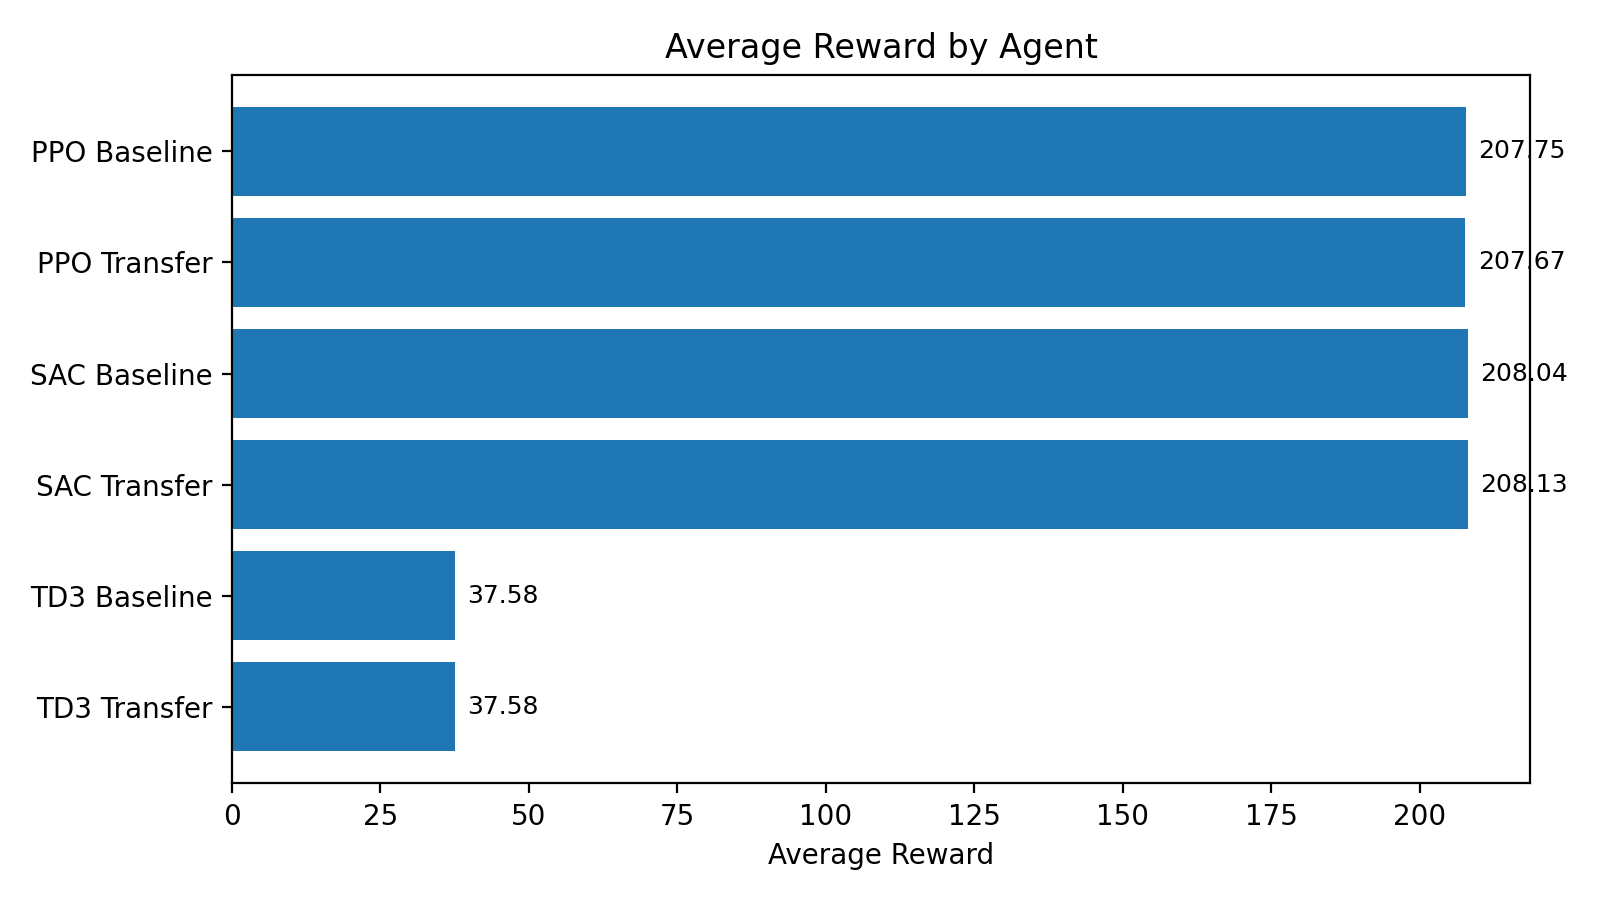
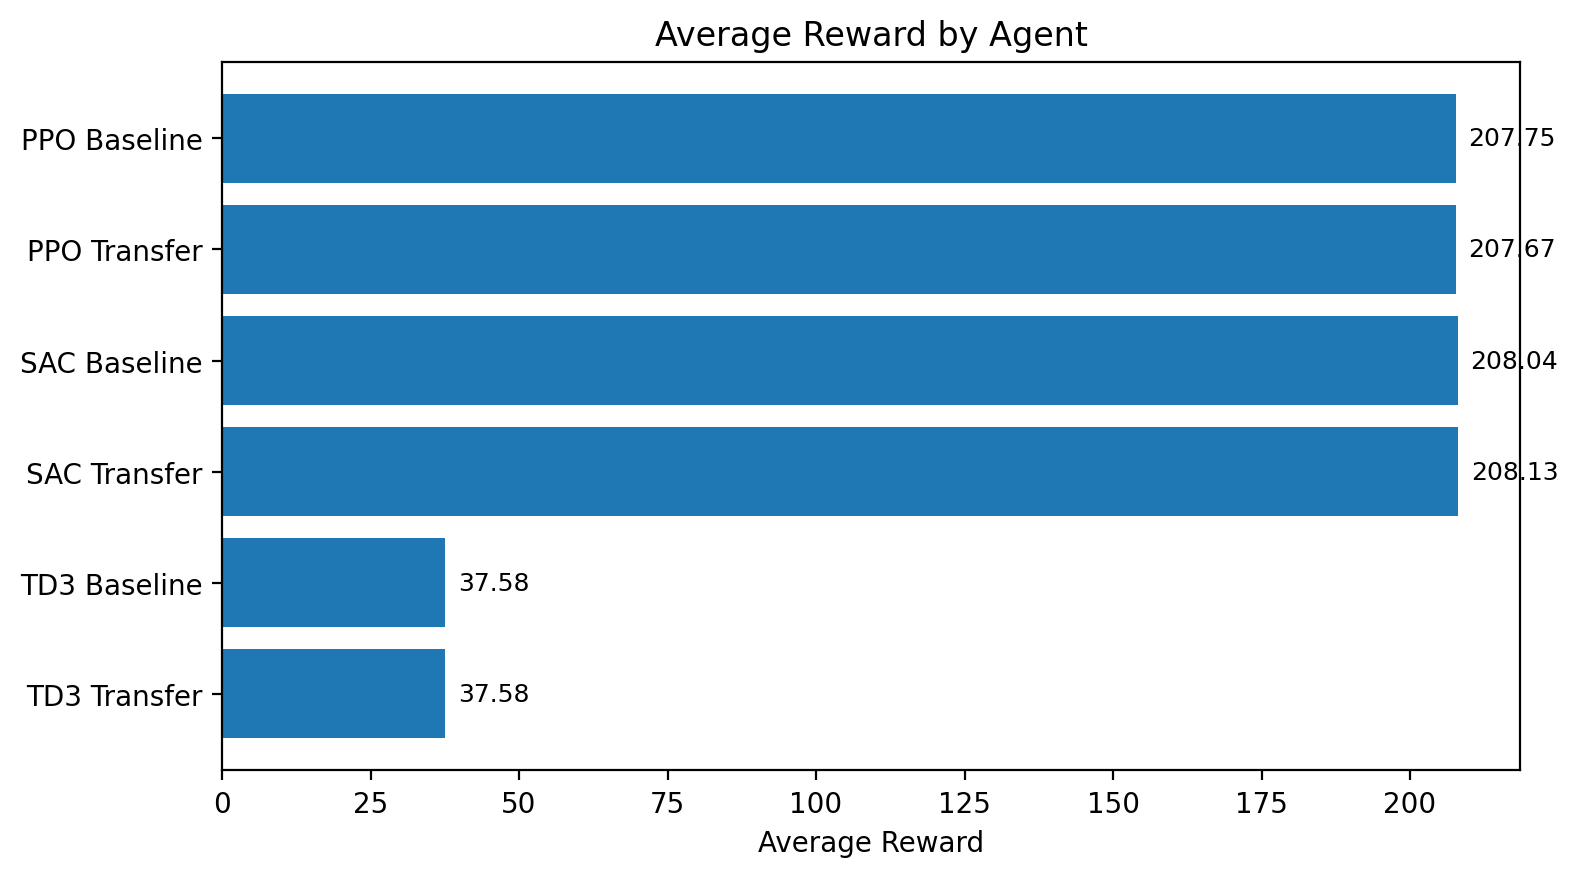
Clean README and evaluation plot generation

Changed region(s): [[0.0, 0.0308, 0.9937, 0.9852], [0.2795, 0.7697, 0.3416, 0.8005], [0.2795, 0.6465, 0.3416, 0.6773]]

diff --git a/src/eval/plot_results.py b/src/eval/plot_results.py
@@ -1,11 +1,14 @@
 import os
-import pandas as pd
+
 import matplotlib.pyplot as plt
+import pandas as pd
+
 
 RESULTS_DIR = os.path.join("results", "plots")
-os.makedirs(RESULTS_DIR, exist_ok=True)
+CSV_PATH = os.path.join("results", "evaluation_results.csv")
 
-data = [
+
+EVALUATION_RESULTS = [
     {
         "Agent": "PPO Baseline",
         "Algorithm": "PPO",
@@ -62,81 +65,107 @@ data = [
     },
 ]
 
-df = pd.DataFrame(data)
+
+def make_results_dataframe() -> pd.DataFrame:
+    """Create a DataFrame from the evaluation results."""
+    return pd.DataFrame(EVALUATION_RESULTS)
 
 
-def add_value_labels(ax, values, suffix=""):
-    for i, value in enumerate(values):
+def add_horizontal_value_labels(ax, values, suffix=""):
+    """Add labels to the end of horizontal bars."""
+    max_value = max(values) if values else 0
+
+    for index, value in enumerate(values):
+        label_offset = max_value * 0.01 if max_value > 0 else 1
         ax.text(
-            value + max(values) * 0.01 if max(values) > 0 else value + 1,
-            i,
+            value + label_offset,
+            index,
             f"{value:.2f}{suffix}",
             va="center",
             fontsize=9,
         )
 
 
-def save_horizontal_bar(column_name, filename, title, xlabel, suffix=""):
+def save_average_reward_plot(df: pd.DataFrame) -> None:
+    """Save a horizontal bar chart comparing average reward by agent."""
     fig, ax = plt.subplots(figsize=(8, 4.5))
-    ax.barh(df["Agent"], df[column_name])
-    ax.set_title(title)
-    ax.set_xlabel(xlabel)
+
+    ax.barh(df["Agent"], df["Average Reward"])
+    ax.set_title("Average Reward by Agent")
+    ax.set_xlabel("Average Reward")
     ax.invert_yaxis()
-    add_value_labels(ax, df[column_name].tolist(), suffix)
+
+    add_horizontal_value_labels(ax, df["Average Reward"].tolist())
+
     plt.tight_layout()
-    plt.savefig(os.path.join(RESULTS_DIR, filename), dpi=200)
-    plt.close()
+    plt.savefig(
+        os.path.join(RESULTS_DIR, "average_reward_comparison.png"),
+        dpi=200,
+        bbox_inches="tight",
+    )
+    plt.close(fig)
 
 
-def save_success_vs_oob():
-    comparison_df = df[["Agent", "Success Rate", "Out-of-Bounds Rate"]].copy()
-
+def save_success_vs_out_of_bounds_plot(df: pd.DataFrame) -> None:
+    """Save a grouped horizontal bar chart comparing success and out-of-bounds rates."""
     fig, ax = plt.subplots(figsize=(8, 4.5))
 
-    y_positions = range(len(comparison_df))
+    y_positions = list(range(len(df)))
     bar_height = 0.35
 
-    success_positions = [y - bar_height / 2 for y in y_positions]
-    oob_positions = [y + bar_height / 2 for y in y_positions]
+    success_positions = [position - bar_height / 2 for position in y_positions]
+    out_of_bounds_positions = [position + bar_height / 2 for position in y_positions]
 
-    ax.barh(success_positions, comparison_df["Success Rate"], height=bar_height, label="Success Rate")
-    ax.barh(oob_positions, comparison_df["Out-of-Bounds Rate"], height=bar_height, label="Out-of-Bounds Rate")
+    ax.barh(
+        success_positions,
+        df["Success Rate"],
+        height=bar_height,
+        label="Success Rate",
+    )
+    ax.barh(
+        out_of_bounds_positions,
+        df["Out-of-Bounds Rate"],
+        height=bar_height,
+        label="Out-of-Bounds Rate",
+    )
 
-    ax.set_yticks(list(y_positions))
-    ax.set_yticklabels(comparison_df["Agent"])
-    ax.invert_yaxis()
+    ax.set_title("Success Rate vs. Out-of-Bounds Rate")
     ax.set_xlabel("Rate (%)")
-    ax.set_title("Success Rate vs Out-of-Bounds Rate")
-    ax.legend()
+    ax.set_yticks(y_positions)
+    ax.set_yticklabels(df["Agent"])
+    ax.invert_yaxis()
+    ax.legend(loc="lower right")
 
-    for i, value in enumerate(comparison_df["Success Rate"]):
-        ax.text(value + 1, success_positions[i], f"{value:.0f}%", va="center", fontsize=8)
+    for index, value in enumerate(df["Success Rate"]):
+        ax.text(value + 1, success_positions[index], f"{value:.0f}%", va="center", fontsize=8)
 
-    for i, value in enumerate(comparison_df["Out-of-Bounds Rate"]):
-        ax.text(value + 1, oob_positions[i], f"{value:.0f}%", va="center", fontsize=8)
+    for index, value in enumerate(df["Out-of-Bounds Rate"]):
+        ax.text(value + 1, out_of_bounds_positions[index], f"{value:.0f}%", va="center", fontsize=8)
 
     plt.tight_layout()
-    plt.savefig(os.path.join(RESULTS_DIR, "success_vs_out_of_bounds.png"), dpi=200)
-    plt.close()
+    plt.savefig(
+        os.path.join(RESULTS_DIR, "success_vs_out_of_bounds.png"),
+        dpi=200,
+        bbox_inches="tight",
+    )
+    plt.close(fig)
 
 
-save_horizontal_bar(
-    "Average Reward",
-    "average_reward_comparison.png",
-    "Average Reward by Agent",
-    "Average Reward",
-)
+def main() -> None:
+    """Generate evaluation result plots and save the raw data as a CSV file."""
+    os.makedirs(RESULTS_DIR, exist_ok=True)
 
-save_success_vs_oob()
+    df = make_results_dataframe()
+    df.to_csv(CSV_PATH, index=False)
 
-save_horizontal_bar(
-    "Avg Episode Length",
-    "episode_length_comparison.png",
-    "Average Episode Length by Agent",
-    "Average Episode Length",
-)
+    save_average_reward_plot(df)
+    save_success_vs_out_of_bounds_plot(df)
 
-df.to_csv(os.path.join("results", "evaluation_results.csv"), index=False)
+    print("Saved CSV to results/evaluation_results.csv")
+    print("Saved plots to results/plots/")
+    print("- average_reward_comparison.png")
+    print("- success_vs_out_of_bounds.png")
 
-print("Saved plots to results/plots/")
-print("Saved CSV to results/evaluation_results.csv")
+
+if __name__ == "__main__":
+    main()

diff --git a/README.md b/README.md
@@ -2,7 +2,7 @@
 
 A reinforcement learning project comparing **PPO**, **SAC**, and **TD3** for simulated autonomous navigation. The project explores whether behavior learned in a UAV-style obstacle-navigation environment can transfer to a UGV navigation task.
 
-This repository includes custom navigation environments, training scripts, transfer-learning utilities, and evaluation code for comparing baseline and transfer-learning agents.
+This repository includes custom navigation environments, training scripts, transfer-learning utilities, evaluation code, result summaries, and generated plots for comparing baseline and transfer-learning agents.
 
 ---
 
@@ -27,7 +27,8 @@ The goal is to compare baseline UGV performance against UAV-to-UGV transfer-lear
 - Baseline UGV training from scratch
 - UAV-to-UGV transfer-learning experiments
 - Evaluation script for comparing trained agents
-- Results documentation for performance summaries
+- Results documentation with real evaluation metrics
+- Generated plots for reward, success rate, and out-of-bounds behavior
 - Clean Python project structure using Stable-Baselines3 and Gymnasium
 
 ---
@@ -73,14 +74,24 @@ rl-tl-drone-to-ugv/
 │   │
 │   ├── eval/
 │   │   ├── __init__.py
-│   │   └── evaluate_agent.py
+│   │   ├── evaluate_agent.py
+│   │   └── plot_results.py
 │   │
 │   └── models/
 │       ├── __init__.py
 │       └── transfer_utils.py
 │
 ├── results/
-│   └── evaluation_summary.md
+│   ├── evaluation_summary.md
+│   ├── evaluation_results.csv
+│   ├── raw_evaluation_output.txt
+│   └── plots/
+│       ├── average_reward_comparison.png
+│       └── success_vs_out_of_bounds.png
+│
+├── configs/
+├── docs/
+└── tests/
 ```
 
 ---
@@ -134,14 +145,14 @@ These metrics are used to measure both reward optimization and practical navigat
 
 PPO and SAC produced the most stable navigation behavior in the tested environments. TD3 required additional tuning for consistent navigation success.
 
-| Agent | Training Type | Average Reward | Success Rate | Out-of-Bounds Rate |
-|---|---|---:|---:|---:|
-| PPO UGV Baseline | From scratch | 207.75 | 100.00% | 0.00% |
-| PPO UGV Transfer | UAV-to-UGV transfer | 207.67 | 100.00% | 0.00% |
-| SAC UGV Baseline | From scratch | 208.04 | 100.00% | 0.00% |
-| SAC UGV Transfer | UAV-to-UGV transfer | 208.13 | 100.00% | 0.00% |
-| TD3 UGV Baseline | From scratch | 37.58 | 0.00% | 100.00% |
-| TD3 UGV Transfer | UAV-to-UGV transfer | 37.58 | 0.00% | 100.00% |
+| Agent | Training Type | Average Reward | Success Rate | Avg Episode Length | Out-of-Bounds Rate |
+|---|---|---:|---:|---:|---:|
+| PPO UGV Baseline | From scratch | 207.75 | 100.00% | 65.00 | 0.00% |
+| PPO UGV Transfer | UAV-to-UGV transfer | 207.67 | 100.00% | 65.00 | 0.00% |
+| SAC UGV Baseline | From scratch | 208.04 | 100.00% | 66.00 | 0.00% |
+| SAC UGV Transfer | UAV-to-UGV transfer | 208.13 | 100.00% | 69.00 | 0.00% |
+| TD3 UGV Baseline | From scratch | 37.58 | 0.00% | 76.00 | 100.00% |
+| TD3 UGV Transfer | UAV-to-UGV transfer | 37.58 | 0.00% | 76.00 | 100.00% |
 
 For more detail, see:
 
@@ -149,23 +160,27 @@ For more detail, see:
 results/evaluation_summary.md
 ```
 
-### Evaluation Plots
+---
 
-#### Average Reward Comparison
+## Evaluation Plots
+
+### Average Reward Comparison
 
 ![Average Reward Comparison](results/plots/average_reward_comparison.png)
 
-#### Success Rate Comparison
+### Success Rate vs. Out-of-Bounds Rate
 
-![Success Rate Comparison](results/plots/success_rate_comparison.png)
+![Success Rate vs. Out-of-Bounds Rate](results/plots/success_vs_out_of_bounds.png)
 
-#### Out-of-Bounds Rate Comparison
+---
 
-![Out-of-Bounds Rate Comparison](results/plots/out_of_bounds_rate_comparison.png)
+## Main Findings
 
-#### Average Episode Length Comparison
+PPO and SAC achieved stable UGV navigation performance in this evaluation, with both baseline and transfer-learning agents reaching a 100% success rate and 0% out-of-bounds rate.
 
-![Average Episode Length Comparison](results/plots/episode_length_comparison.png)
+TD3 performed poorly in the tested setup. Both TD3 baseline and TD3 transfer agents had a 0% success rate and 100% out-of-bounds rate, suggesting that TD3 required additional tuning for this environment.
+
+The transfer-learning agents did not show a major improvement over the baseline agents in this evaluation. PPO baseline and PPO transfer produced nearly identical results, while SAC transfer had the highest average reward but a slightly longer average episode length.
 
 ---
 
@@ -242,6 +257,12 @@ Run the evaluation script:
 python -m src.eval.evaluate_agent
 ```
 
+Generate evaluation plots:
+
+```bash
+python -m src.eval.plot_results
+```
+
 The evaluation script compares trained agents using reward, success rate, average episode length, and out-of-bounds behavior.
 
 ---
@@ -253,6 +274,7 @@ The evaluation script compares trained agents using reward, success rate, averag
 - Gymnasium
 - PyTorch
 - NumPy
+- Pandas
 - Matplotlib
 - TensorBoard
 - Git / GitHub
@@ -269,7 +291,6 @@ Future work would require more realistic simulation, stronger environment random
 
 ## Future Improvements
 
-- Add training curves and evaluation plots to the `results/` folder
 - Add environment screenshots or demo videos
 - Run larger hyperparameter sweeps
 - Improve reward shaping and penalty scaling
@@ -277,6 +298,7 @@ Future work would require more realistic simulation, stronger environment random
 - Add sensor-style observations
 - Compare additional transfer-learning strategies
 - Test policies in higher-fidelity simulation environments
+- Improve TD3 training stability through hyperparameter tuning
 
 ---
 